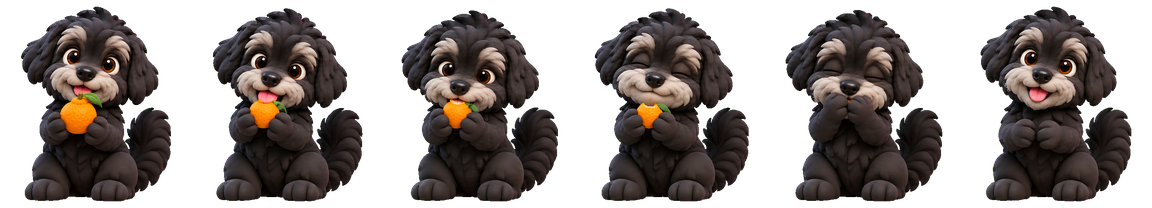
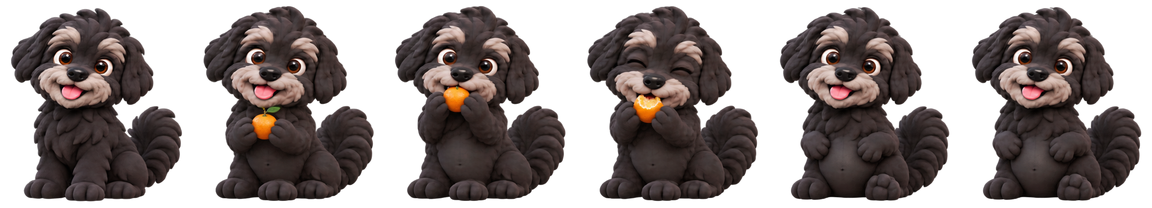
feat: import Lucia's fixed-camera sprite pack
- Regenerated idle, gaze, feeding stages and feeds 0–4, full, ears-perk and stretch at
  idle's scale on one ground line (Lucia-fixed-camera-2026-11-02.zip; hashes verified)
- Manifest: new hashes, every ground line re-measured at 201, gaze anchor 201
- Idle animates again; its cells now vary by 2px instead of 12px
- The sprite-scale acceptance test is a real test now
- Mid-feed width checks allow the brief's 2px for moving paws and fruit

Claude-Session: https://claude.ai/code/session_01Df2drsftGF2QsPw37q8guQ

diff --git a/claria-desktop-frontend/src/lib/luciaArtwork.test.ts b/claria-desktop-frontend/src/lib/luciaArtwork.test.ts
@@ -122,13 +122,15 @@ describe("Lucia imported synthetic artwork", () => {
 });
 
 describe("Lucia policy-to-art mapping", () => {
-  it("holds original idle cell zero at a fixed anchor instead of looping source width changes", () => {
-    const original = selectLuciaPose(state({}), 0);
-    expect(original).toMatchObject({ image: manifest.core_image, frame: { row: 0, column: 0 }, anchor: [96, 201], animated: false });
-    for (const elapsed of [279, 280, 390, 500, 640, 780, 1100, 30_000]) {
-      expect(selectLuciaPose(state({}), elapsed)).toEqual(original);
+  it("loops idle in place on one anchor now that its cells keep a steady silhouette", () => {
+    const columns = [[0, 0], [279, 0], [280, 1], [390, 2], [500, 3], [640, 4], [780, 5], [1099, 5], [1100, 0]];
+    for (const [elapsed, column] of columns) {
+      expect(selectLuciaPose(state({}), elapsed)).toMatchObject({
+        image: manifest.core_image, frame: { row: 0, column }, anchor: [96, 201], animated: true,
+      });
       expect(luciaPosition(state({}), elapsed, 1280)).toBe(90);
     }
+    expect(selectLuciaPose(state({ reducedMotion: true }), 500)).toMatchObject({ frame: { column: 0 }, animated: false });
   });
 
   it("maps every current feeding count to its own non-looping six-frame strip", () => {
@@ -152,7 +154,7 @@ describe("Lucia policy-to-art mapping", () => {
     expect(selectLuciaPose(state({ behavior: "full", fedCount: 5 }), 0).image).toContain("full-strip");
   });
 
-  it("keeps later feeding silhouettes at least as wide as their starting stage with fixed contact", () => {
+  it("never shrinks a later feed below its starting stage, with fixed contact", () => {
     const stages = rgbaPixels(manifest.stages.image);
     const width = (image: ReturnType<typeof rgbaPixels>, column: number) => {
       const occupied: number[] = [];
@@ -171,7 +173,8 @@ describe("Lucia policy-to-art mapping", () => {
       const image = rgbaPixels(source.image);
       for (let frame = 0; frame < 6; frame++) {
         expect(opaqueBottom(image, 0, frame)).toBe(source.ground_y);
-        expect(width(image, frame)).toBeGreaterThanOrEqual(width(stages, count));
+        // Paws and fruit move mid-feed; 2px matches the regeneration brief's tolerance.
+        expect(width(image, frame)).toBeGreaterThanOrEqual(width(stages, count) - 2);
       }
       expect(width(image, 5)).toBeLessThanOrEqual(width(stages, count + 1));
     }
@@ -181,7 +184,7 @@ describe("Lucia policy-to-art mapping", () => {
     const gazeState = state({ behavior: "gaze", mode: "gaze" });
     for (const angle of manifest.gaze_degrees) {
       const frame = selectPetsV2LookFrame(angle);
-      expect(selectLuciaPose(gazeState, 50_000, frame)).toMatchObject({ frame, anchor: [96, 202], animated: false });
+      expect(selectLuciaPose(gazeState, 50_000, frame)).toMatchObject({ frame, anchor: manifest.gaze_anchor, animated: false });
       expect(luciaPosition(gazeState, 50_000, 1000)).toBe(90);
     }
   });
@@ -254,10 +257,8 @@ function opaqueBox(image: ReturnType<typeof rgbaPixels>, row: number, column: nu
 }
 
 describe("Lucia sprite scale acceptance (the regeneration brief)", () => {
-  // KNOWN DEFECT in the supplied art: stages, feeding-size-N, gaze and ears-perk are drawn at
-  // ~90–95% of idle's scale, so Lucia resizes at every strip switch. `it.fails` keeps CI green
-  // while documenting it; when regenerated art lands this starts failing — delete `.fails`.
-  it.fails("draws every seated, front-facing pose at idle cell 0's scale, on one ground line", () => {
+  // Guards the fixed-camera pack: a strip at another scale makes Lucia resize at every switch.
+  it("draws every seated, front-facing pose at idle cell 0's scale, on one ground line", () => {
     const reference = opaqueBox(rgbaPixels(manifest.core_image), 0, 0);
     const problems: string[] = [];
     const seated: Array<[string, number, number, number, number]> = [

diff --git a/e2e/lucia-demo.spec.ts b/e2e/lucia-demo.spec.ts
@@ -87,14 +87,15 @@ test("natural Companion quiet and play deadlines reach their mapped strips with 
   await expect(page.getByTestId("lucia-sprite")).toHaveAttribute("data-image", /skateboard-left/);
 });
 
-test("decoded canvas stays nonblank across every sampled sock-switch frame and keeps idle registration fixed", async ({ page }) => {
+test("decoded canvas stays nonblank across every sampled sock-switch frame and idle loops on a fixed registration", async ({ page }) => {
   await page.goto(`${BASE_URL}/lucia-demo.html`);
   await expect(page.getByTestId("lucia-scene")).toHaveAttribute("data-behavior", "idle");
   const initial = await page.getByTestId("lucia-sprite").boundingBox();
   const idlePixels = await page.locator('[data-testid="lucia-sprite"] canvas').evaluate((canvas) => (canvas as HTMLCanvasElement).toDataURL());
   await page.waitForTimeout(1200);
   expect(await page.getByTestId("lucia-sprite").boundingBox()).toEqual(initial);
-  expect(await page.locator('[data-testid="lucia-sprite"] canvas').evaluate((canvas) => (canvas as HTMLCanvasElement).toDataURL())).toBe(idlePixels);
+  // Idle animates in place now that its cells keep one silhouette; only the pixels change.
+  expect(await page.locator('[data-testid="lucia-sprite"] canvas').evaluate((canvas) => (canvas as HTMLCanvasElement).toDataURL())).not.toBe(idlePixels);
   await page.evaluate(() => {
     type Sample = { behavior: string | undefined; frame: string | undefined; opaque: number; nativeWidth: number; nativeHeight: number; width: number; height: number; sock: boolean };
     const state = window as typeof window & { luciaSwitchSamples: Sample[]; stopLuciaSampling: boolean };
@@ -185,7 +186,8 @@ test("every-size feeding stays decoded, grounded and count-correct through all f
     const before = samples.find((sample) => sample.behavior === "feeding-idle" && sample.count === count)!;
     const feeding = samples.filter((sample) => sample.behavior === "feeding" && sample.count === count);
     expect([...new Set(feeding.map((sample) => sample.frame))]).toEqual(["0:0", "0:1", "0:2", "0:3", "0:4", "0:5"]);
-    expect(Math.min(...feeding.map((sample) => sample.width))).toBeGreaterThanOrEqual(before.width);
+    // Paws and fruit move mid-feed: within 2 source pixels (1.3 CSS px) of the starting stage.
+    expect(Math.min(...feeding.map((sample) => sample.width))).toBeGreaterThanOrEqual(before.width - 2 * 0.65);
     const after = samples.find((sample) => sample.behavior === "feeding-idle" && sample.count === count + 1)!;
     expect(feeding.at(-1)!.width).toBeLessThanOrEqual(after.width);
   }

diff --git a/claria-desktop-frontend/src/components/LuciaCompanion.test.tsx b/claria-desktop-frontend/src/components/LuciaCompanion.test.tsx
@@ -76,17 +76,22 @@ describe("LuciaCompanion", () => {
     expect(vi.getTimerCount()).toBe(0);
   });
 
-  it("holds the baseline idle cell without scheduling redraws or changing registration", async () => {
+  it("loops idle in place, drawing only when the cell changes and never moving its registration", async () => {
     await mount();
     advance(config.durationsMs.tailwag);
     const context = sprite().querySelector("canvas")!.getContext("2d")!;
     const calls = vi.mocked(context.drawImage).mock.calls.length;
     const registration = [sprite().style.left, sprite().style.bottom];
-    advance(5000);
+    const seen = new Set<string>();
+    for (let step = 0; step < 50; step++) {
+      advance(110);
+      seen.add(sprite().dataset.frame!);
+      expect([sprite().style.left, sprite().style.bottom]).toEqual(registration);
+    }
     expect(scene().dataset.behavior).toBe("idle");
-    expect(sprite().dataset.frame).toBe("0:0");
-    expect(vi.mocked(context.drawImage).mock.calls.length).toBe(calls);
-    expect([sprite().style.left, sprite().style.bottom]).toEqual(registration);
+    expect([...seen].sort()).toEqual(["0:0", "0:1", "0:2", "0:3", "0:4", "0:5"]);
+    // 5.5s is five 1100ms cycles: six cell changes each, not one draw per display frame.
+    expect(vi.mocked(context.drawImage).mock.calls.length - calls).toBeLessThanOrEqual(31);
     expect(screen.queryByLabelText("Preview Lucia action")).toBeNull();
   });
 

diff --git a/claria-desktop-frontend/src/lib/luciaArtwork.ts b/claria-desktop-frontend/src/lib/luciaArtwork.ts
@@ -114,10 +114,8 @@ export function selectLuciaPose(state: LuciaBehaviorState, elapsedMs: number, ga
       : state.behavior === "feeding" ? feedingClip : state.behavior;
   const metadata = luciaClip(name);
   const source = manifest.clips[name];
-  // The supplied idle cells narrow from 170 to 158 opaque pixels. Hold the original
-  // first pose rather than loop that silhouette jump or rescale individual frames.
-  const animated = !state.reducedMotion && state.behavior !== "idle"
-    && state.behavior !== "inactive" && state.behavior !== "gaze";
+  // Gaze frames come from the pointer, not the clock.
+  const animated = !state.reducedMotion && state.behavior !== "inactive" && state.behavior !== "gaze";
   const playback = { playback: source.loop ? "loop" : "once", reducedMotion: !animated } as const;
   const frame = state.behavior === "gaze" && gaze && !state.reducedMotion
     ? gaze

diff --git a/e2e/distraction-mode-lifecycle.spec.ts b/e2e/distraction-mode-lifecycle.spec.ts
@@ -137,9 +137,8 @@ test("all sixteen gaze directions keep the seated body at one ground anchor", as
     expect(box).toEqual(directional);
     await screenshot(page, `gaze-${direction}`);
   }
-  // Neutral is idle cell 0, whose measured ground sits one source pixel above the gaze rows'.
-  expect(bounds.x).toBe(directional!.x);
-  expect(bounds.y - directional!.y).toBeCloseTo((202 - 201) * 0.65, 1);
+  // Neutral (idle cell 0) and every gaze cell share one measured ground line.
+  expect(directional).toEqual(bounds);
 });
 
 test("real hidden browser tab drops transient work and resumes without a missed-action backlog", async ({ page, context }, testInfo) => {

diff --git a/CHANGELOG.md b/CHANGELOG.md
@@ -4,6 +4,8 @@ All notable changes to Claria are documented here.
 
 ## [Unreleased]
 
+- Lucia stays the same size across every animation, including feeding and seated gaze
+- Lucia's idle animation plays again, without the sideways stretch
 - Lucia's controls sit beside her in the rail, leaving the client header clean
 - Clicking Lucia feeds her in feeding mode and pets her otherwise
 - Lucia's modes are one-click buttons instead of a menu
@@ -16,7 +18,6 @@ All notable changes to Claria are documented here.
 - Clicking Lucia again right after a bark works
 - Lucia lifts and eats each dekopon with the matching body-size animation
 
-- Lucia holds a steady companion pose between actions
 - Lucia switches animation strips without blank frames
 - The local Lucia demo offers explicit animation previews
 - Distraction mode adds synthetic Lucia artwork, seated gaze, and five-stage dekopon feeding
